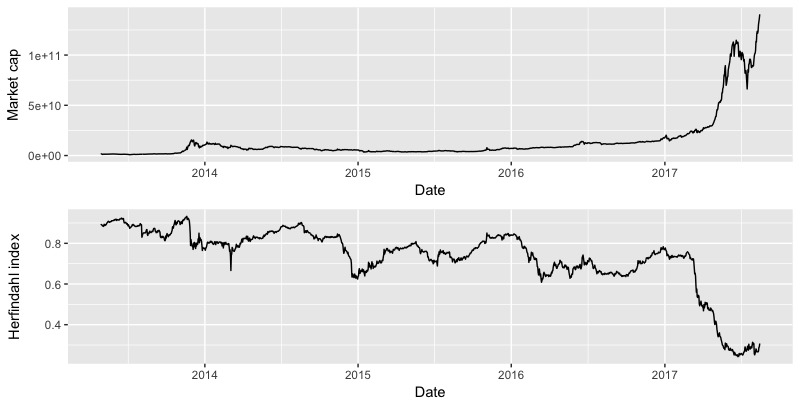
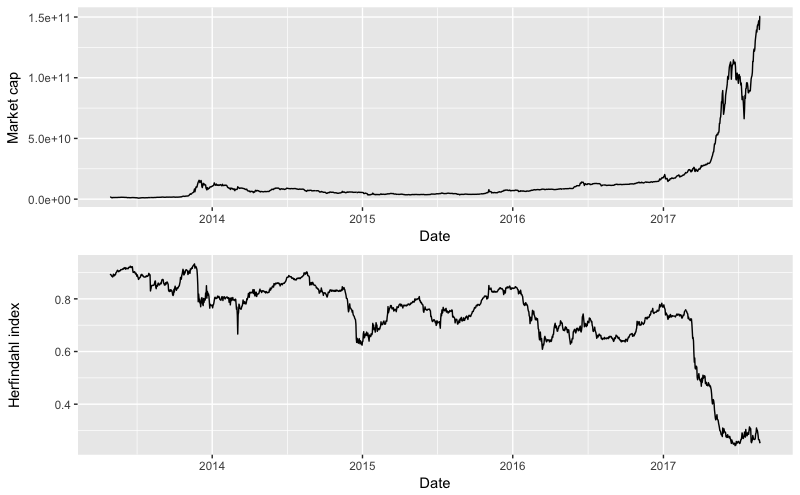
Updated with new data

diff --git a/README.md b/README.md
@@ -7,7 +7,7 @@ Especially in light of the increasing number of successful coins and [decreasing
 
 ## Progress
 
-*Data updated 15/08/2017. Restricted some visualizations to data from 2017*
+*Data updated 24/08/2017. Restricted some visualizations to data from 2017*
 
 This is a work in progress. Steps taken so far:
 
